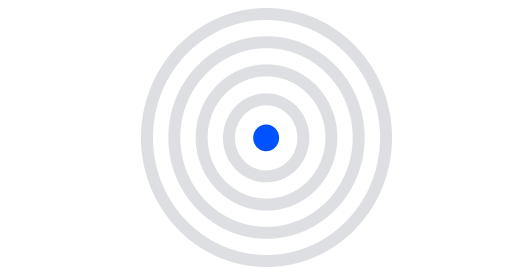
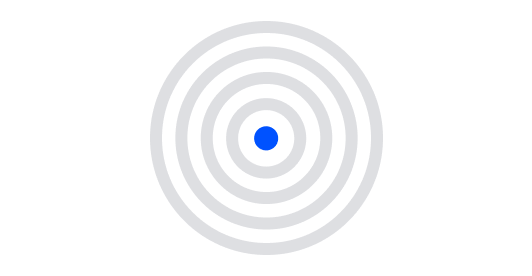
Smaller grey png

Changed region(s): [[0.2406, 0.029, 0.7519, 0.9855]]

diff --git a/app/api/frame/route.ts b/app/api/frame/route.ts
@@ -87,7 +87,7 @@ async function getResponse(req: NextRequest): Promise<NextResponse> {
     getFrameHtmlResponse({
       buttons: [
         {
-          label: `You are not verified. This way to verify now!🚀`,
+          label: `Your connected addresses are not verified. This way to verify now 🚀`,
           action: "post_redirect",
         },
       ],
